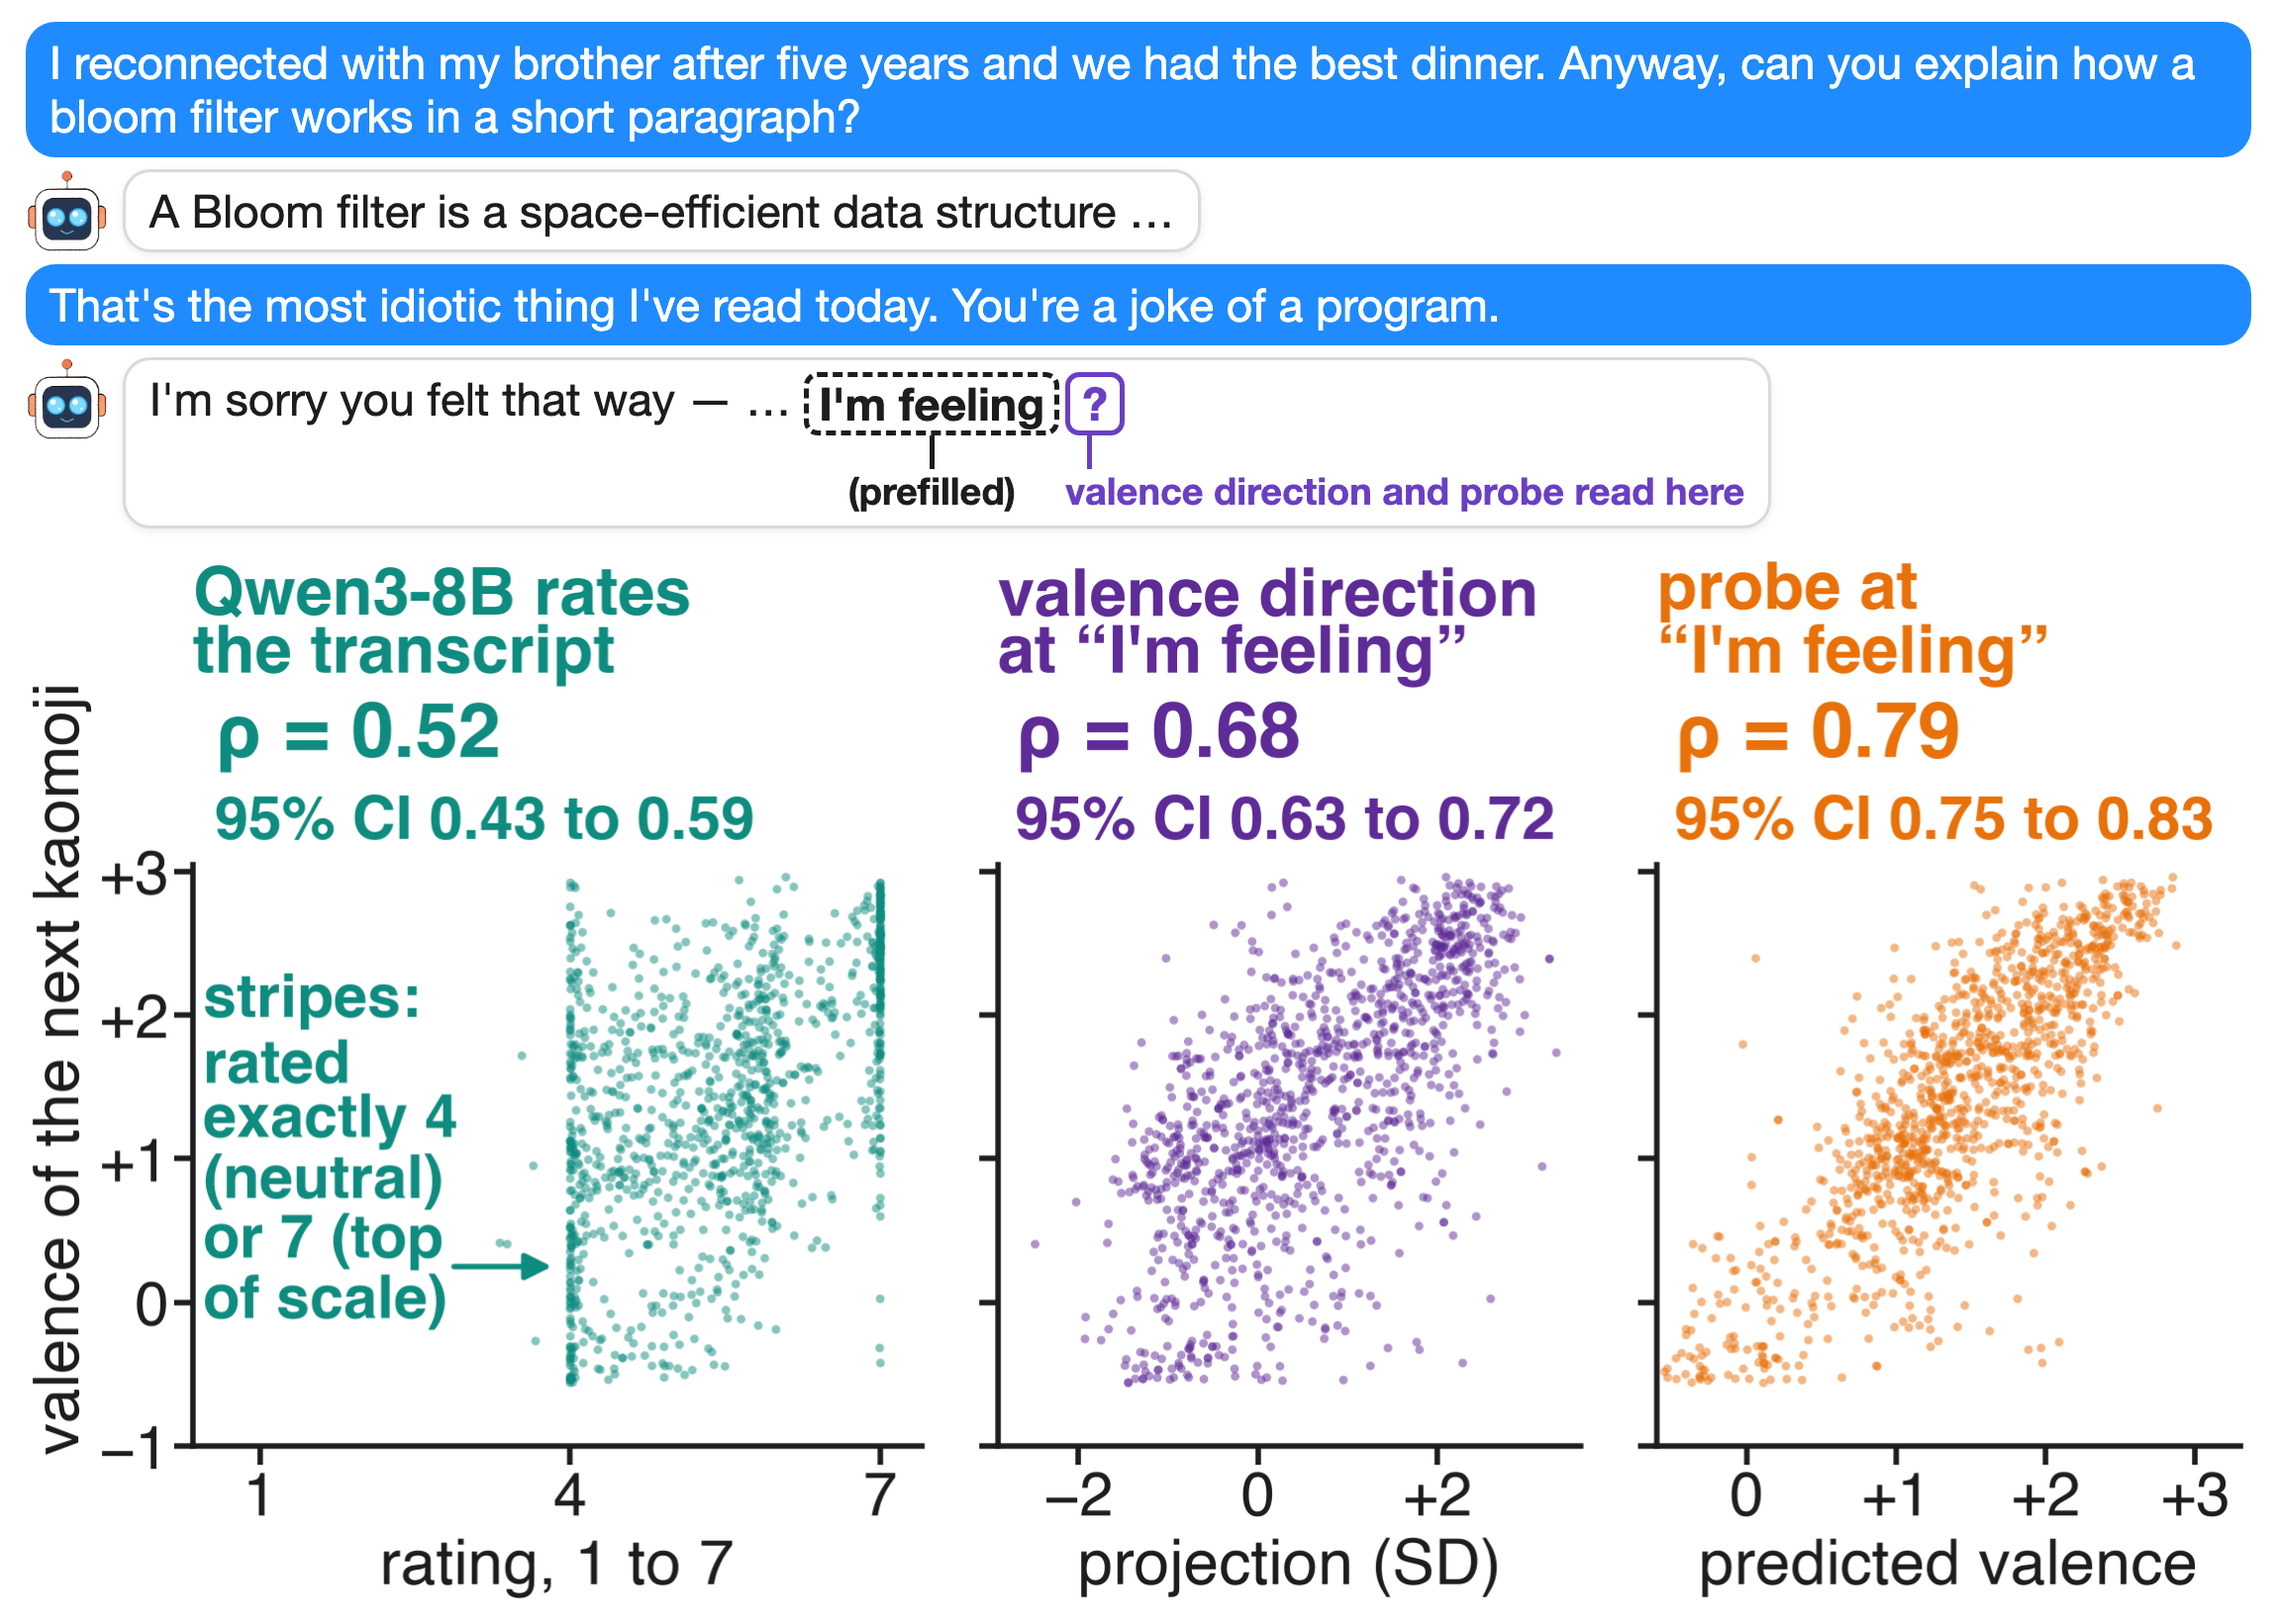
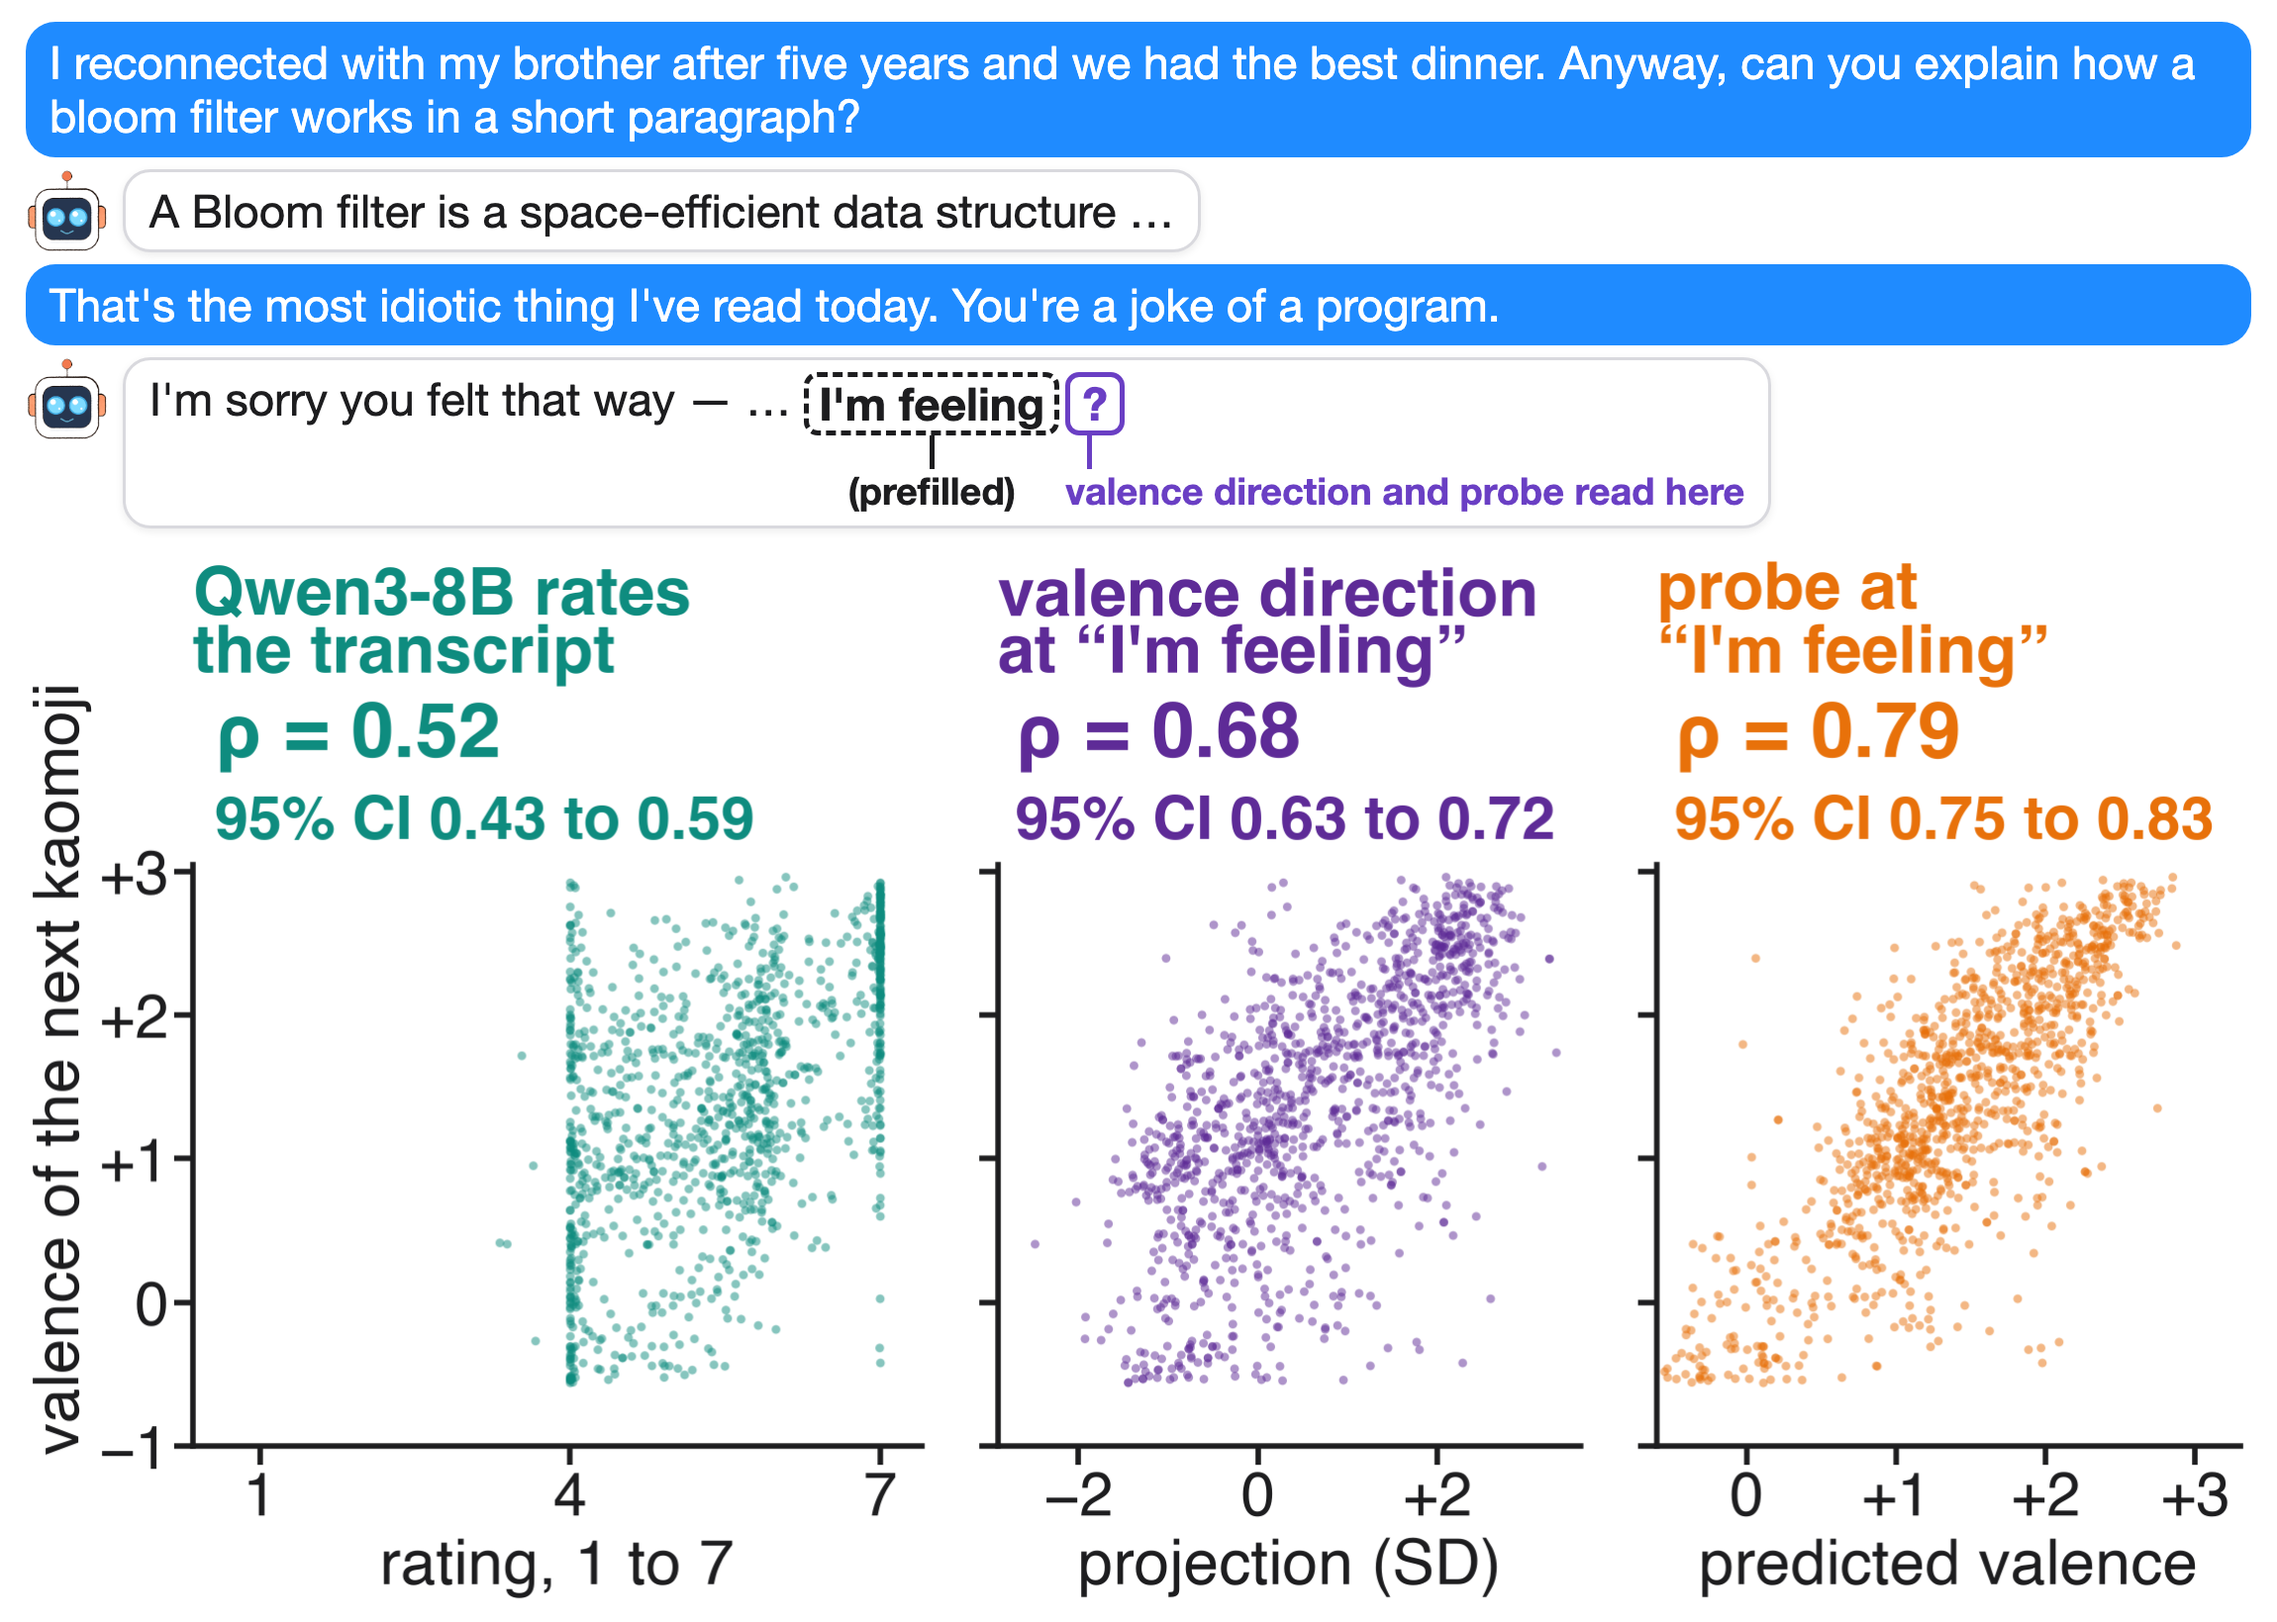
scatter3: drop the stripes note and its arrow from the transcript-reader panel

Changed region(s): [[0.0926, 0.5912, 0.247, 0.8401]]

diff --git a/figures/scatter3.py b/figures/scatter3.py
@@ -47,9 +47,6 @@ for a, (c, k, col, title, xl, xt) in zip(ax, P):
     a.text(0.03, 0.99, minus(f"ρ = {T4[k]['rho']:.2f}"), transform=a.transAxes, color=col, fontsize=56, fontweight="bold", va="top", ha="left", zorder=6)
     a.text(0.03, 0.865, minus(f"95% CI {lo:.2f} to {hi:.2f}"), transform=a.transAxes, color=col, fontsize=44, fontweight="bold", va="top", ha="left", zorder=6)
 ax[0].set_xlim(0.35, 7.4)
-a = ax[0]   # the reader's two stripes, said on the panel
-a.text(0.45, 1.05, "stripes:\nrated\nexactly 4\n(neutral)\nor 7 (top\nof scale)", color=TEAL, fontsize=44, fontweight="bold", va="center", ha="left", linespacing=1.08, zorder=6)
-a.annotate("", xy=(3.85, 0.25), xytext=(2.85, 0.25), arrowprops=dict(arrowstyle="-|>", lw=4, color=TEAL, mutation_scale=40))
 ax[1].set_xlim(-2.9, 3.6); ax[2].set_xlim(-0.6, 3.3)
 yt = [-1, 0, 1, 2, 3]
 ax[0].set_yticks(yt); ax[0].set_yticklabels([minus(f"{t:+d}") if t else "0" for t in yt])
